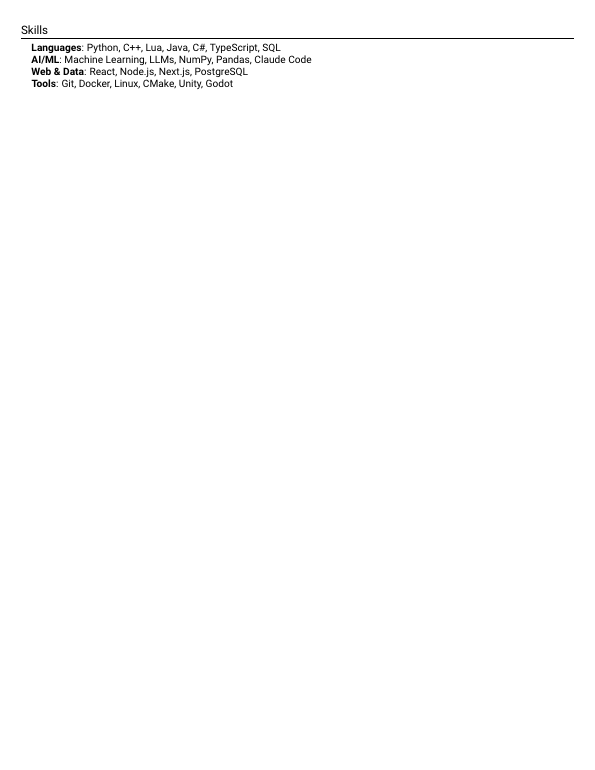
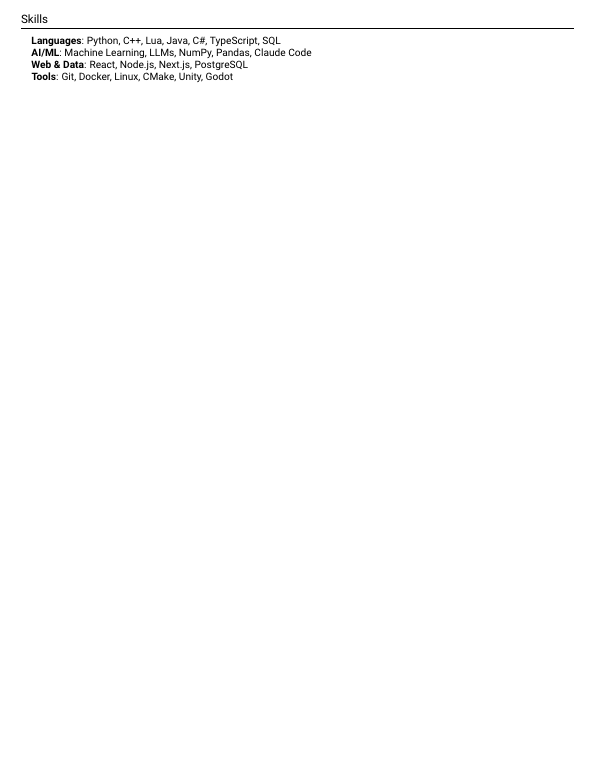
Spacing adjustments

Changed region(s): [[0.0303, 0.0, 0.5445, 0.1247]]

diff --git a/Aiden_Tran_Resume.tex b/Aiden_Tran_Resume.tex
@@ -55,8 +55,8 @@
 \addtolength{\oddsidemargin}{-0.7in}
 \addtolength{\evensidemargin}{-0.7in}
 \addtolength{\textwidth}{1.4in}
-\addtolength{\topmargin}{-.65in}
-\addtolength{\textheight}{1.3in}
+\addtolength{\topmargin}{-.8in}
+\addtolength{\textheight}{1.45in}
 
 \urlstyle{same}
 
@@ -67,7 +67,7 @@
 % Sections formatting
 \titleformat{\section}{
   \vspace{-4pt}\raggedright\large
-}{}{0em}{}[\color{black}\titlerule \vspace{2pt}]
+}{}{0em}{}[\color{black}\titlerule \vspace{-1pt}]
 
 % Ensure that generate pdf is machine readable/ATS parsable
 \pdfgentounicode=1
@@ -83,7 +83,7 @@
     \begin{tabular*}{0.97\textwidth}[t]{l@{\extracolsep{\fill}}r}
       \textbf{#1} & #2 \\
       \textit{#3} & \textit{#4} \\
-    \end{tabular*}\vspace{-3pt}
+    \end{tabular*}\vspace{-4pt}
 }
 
 \newcommand{\resumeSubSubheading}[2]{
@@ -107,7 +107,7 @@
 \newcommand{\resumeSubHeadingListStart}{\begin{itemize}[leftmargin=0.15in, label={}]}
 \newcommand{\resumeSubHeadingListEnd}{\end{itemize}}
 \newcommand{\resumeItemListStart}{\begin{itemize}[itemsep=2.5pt, topsep=2pt]}
-\newcommand{\resumeItemListEnd}{\end{itemize}\vspace{-2pt}}
+\newcommand{\resumeItemListEnd}{\end{itemize}\vspace{3pt}}
 
 %-------------------------------------------
 %%%%%%  RESUME STARTS HERE  %%%%%%%%%%%%%%%%%%%%%%%%%%%%
@@ -117,8 +117,8 @@
 
 %----------HEADING----------
 \begin{center}
-    \textbf{\Huge Aiden Tran} \\[6pt]
-    \small (714)-487-4336 $|$ \href{mailto:aidentran900@gmail.com}{\underline{aidentran900@gmail.com}} \\[4pt]
+    \textbf{\Huge Aiden Tran} \\[3pt]
+    \small (714)-487-4336 $|$ \href{mailto:aidentran900@gmail.com}{\underline{aidentran900@gmail.com}} \\[2pt]
     \small \href{https://aidentran.dev}{\underline{aidentran.dev}} $|$
     \href{https://linkedin.com/in/aidentran900}{\underline{linkedin.com/in/aidentran900}} $|$
     \href{https://github.com/AidenTran900}{\underline{github.com/AidenTran900}}
